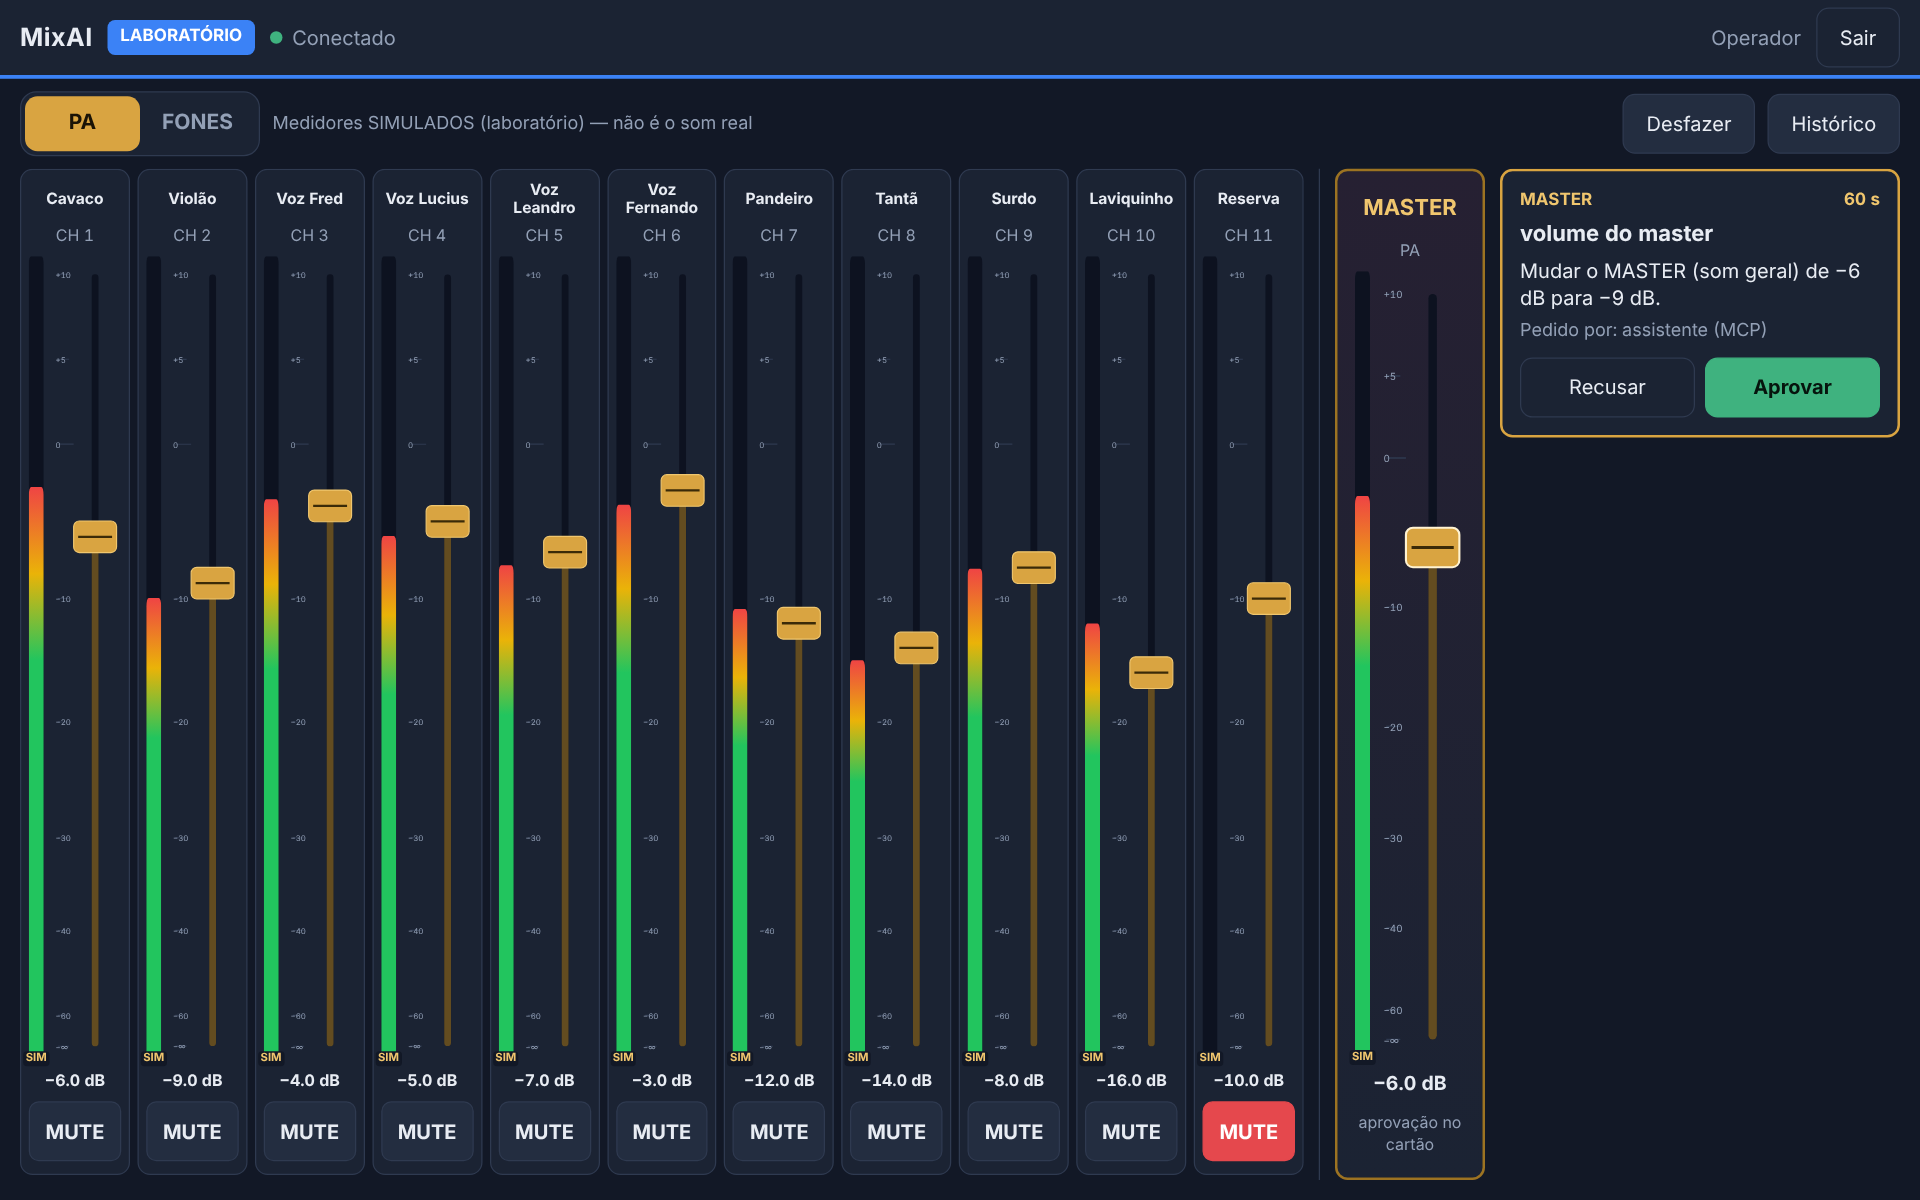
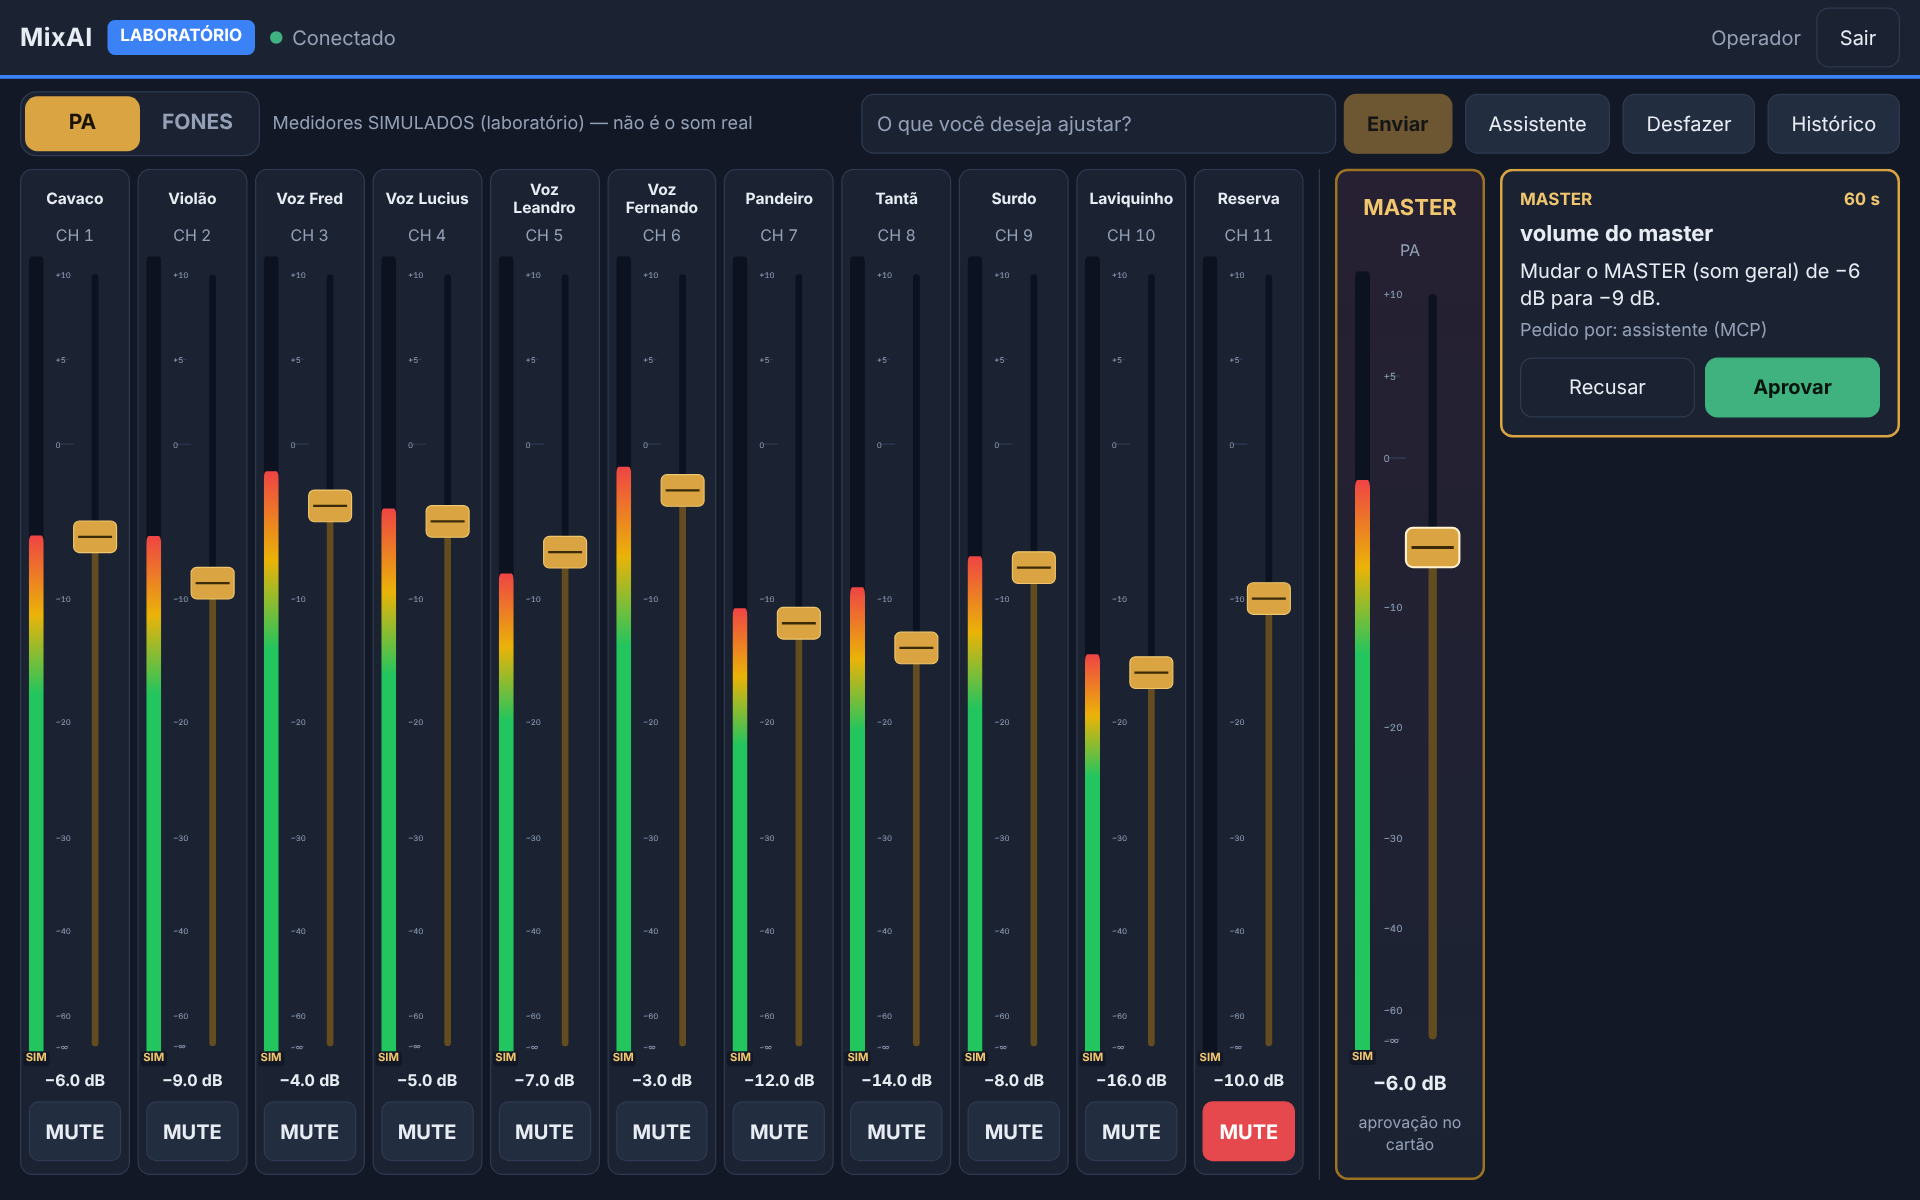
E4: testes de integração do assistente e capturas
- e2e (navegador real + servidor LAB): Yoga e celular sincronizados após
  ajustes aplicados pelo assistente nos dois sentidos, inclusive o
  "Não, voltar"; pergunta PA/FONES com botões; master pelo assistente →
  cartão de aprovação → Aprovar; músico pedindo PA recusado; IA simulada
  propondo com motivo e, ao cair, aviso sem travar a mesa (MUTE segue).
- Painel: origem "IA" visível no próprio cartão; a conversa rola até a
  mensagem mais recente.
- Capturas da E4 (Yoga e celular; IA simulada) e capturas da E3
  atualizadas com o campo do assistente.

Claude-Session: https://claude.ai/code/session_01ALNfJPYNgshdvedMN7ticP

diff --git a/test/e2e/assistant.test.ts b/test/e2e/assistant.test.ts
@@ -1,0 +1,137 @@
+import type { Browser, Page } from 'playwright';
+import { afterAll, afterEach, beforeAll, describe, expect, it } from 'vitest';
+import { paramKey } from '../../src/core/revisions.js';
+import { auxBus, MASTER } from '../../src/mixer/types.js';
+import { bandChannels, enter, launch, MUSICIAN_PIN, OPERATOR_PIN, PHONE, startLab } from './harness.js';
+
+type Lab = Awaited<ReturnType<typeof startLab>>;
+let browser: Browser;
+const labs: Lab[] = [];
+const contexts: Array<{ close: () => Promise<void> }> = [];
+beforeAll(async () => {
+  browser = await launch();
+});
+afterAll(async () => {
+  await browser.close();
+});
+afterEach(async () => {
+  for (const c of contexts.splice(0)) await c.close().catch(() => undefined);
+  for (const l of labs.splice(0)) await l.server.close();
+});
+
+async function lab(opts: Parameters<typeof startLab>[0] = {}) {
+  const l = await startLab({ channels: bandChannels(), ...opts });
+  labs.push(l);
+  return l;
+}
+async function open(l: Lab, pin: string, device?: object) {
+  const r = await enter(browser, l.base, pin, device);
+  contexts.push(r.ctx);
+  return r.page;
+}
+async function say(page: Page, text: string) {
+  await page.getByPlaceholder('O que você deseja ajustar?').fill(text);
+  await page.getByRole('button', { name: 'Enviar' }).click();
+}
+const v = (l: Lab, key: string) => (l.mixer.read(key as never) as { value?: unknown }).value;
+const lastCard = (page: Page) => page.locator('.proposal').last();
+
+/** Resposta simulada da Anthropic (nenhum crédito real). */
+const anthropic = (input: unknown) =>
+  new Response(
+    JSON.stringify({
+      model: 'claude-haiku-5-5',
+      content: [{ type: 'tool_use', id: 't', name: 'propor_ajuste', input }],
+      usage: { input_tokens: 850, output_tokens: 70 },
+    }),
+    { status: 200, headers: { 'content-type': 'application/json' } },
+  );
+
+describe('assistente na tela (LAB, navegador real)', () => {
+  it('Yoga e celular sincronizados após alterações feitas pelo assistente', async () => {
+    const l = await lab();
+    const yoga = await open(l, OPERATOR_PIN);
+    const phone = await open(l, MUSICIAN_PIN, PHONE);
+
+    // Operador, no Yoga, pelo assistente: cartão primeiro, nada muda até Aplicar
+    await say(yoga, 'sobe o cavaco nos fones');
+    await lastCard(yoga).waitFor();
+    expect(await lastCard(yoga).textContent()).toContain('FONES');
+    expect(v(l, paramKey.level(1, auxBus(1)))).toBe(-20);
+    await lastCard(yoga).getByRole('button', { name: 'Aplicar' }).click();
+    await expect.poll(() => v(l, paramKey.level(1, auxBus(1)))).toBe(-18);
+    await expect.poll(() => phone.getByTestId('fones-value-1').textContent()).toContain('−18.0 dB'); // o celular viu
+
+    // Músico, no celular: "sobe o surdo" → FONES (o único destino dele) → Yoga acompanha
+    await say(phone, 'sobe o surdo');
+    await lastCard(phone).getByRole('button', { name: 'Aplicar' }).click();
+    await expect.poll(() => v(l, paramKey.level(9, auxBus(1)))).toBe(-18);
+    await yoga.getByRole('tab', { name: 'FONES' }).click();
+    await expect.poll(() => yoga.locator('.strips .strip-value').nth(8).textContent()).toContain('−18.0 dB');
+
+    // "Melhorou? Não, voltar" no celular → nova proposta → volta ao valor anterior
+    await phone.getByRole('button', { name: 'Não, voltar' }).click();
+    await lastCard(phone).getByRole('button', { name: 'Aplicar' }).click();
+    await expect.poll(() => v(l, paramKey.level(9, auxBus(1)))).toBe(-20);
+    await expect.poll(() => yoga.locator('.strips .strip-value').nth(8).textContent()).toContain('−20.0 dB');
+  });
+
+  it('ambíguo: pergunta PA ou FONES com botões; a escolha vira proposta', async () => {
+    const l = await lab();
+    const yoga = await open(l, OPERATOR_PIN);
+    await say(yoga, 'Aumenta um pouco o surdo.');
+    await yoga.locator('.assist-options').getByRole('button', { name: 'PA', exact: true }).click();
+    await lastCard(yoga).waitFor();
+    expect(await lastCard(yoga).textContent()).toContain('−8.0 dB');
+    expect(v(l, paramKey.level(9, MASTER))).toBe(-10);
+  });
+
+  it('master pelo assistente: Aplicar → cartão de aprovação da E2 → Aprovar', async () => {
+    const l = await lab();
+    const yoga = await open(l, OPERATOR_PIN);
+    await say(yoga, 'abaixa o master 2 db');
+    await lastCard(yoga).getByRole('button', { name: 'Aplicar' }).click();
+    const approval = yoga.locator('mx-pending-cards .card');
+    await approval.waitFor();
+    expect(v(l, paramKey.master())).toBe(-6);
+    await approval.getByRole('button', { name: 'Aprovar' }).click();
+    await expect.poll(() => v(l, paramKey.master())).toBe(-8);
+  });
+
+  it('músico pedindo PA pelo assistente: recusado com explicação', async () => {
+    const l = await lab();
+    const phone = await open(l, MUSICIAN_PIN, PHONE);
+    await say(phone, 'sobe o surdo no PA');
+    await phone.locator('.tone-error').waitFor();
+    expect(await phone.locator('.tone-error').textContent()).toContain('PA e master são do operador');
+    expect(v(l, paramKey.level(9, MASTER))).toBe(-10);
+  });
+
+  it('IA (simulada): pedido vago vira proposta com motivo; a mesa segue funcionando se a IA cair', async () => {
+    let mode: 'ok' | 'down' = 'ok';
+    const l = await lab({
+      ai: { enabled: true, timeoutMs: 2000 },
+      aiKey: 'sk-ant-teste',
+      aiFetch: async () => {
+        if (mode === 'down') throw Object.assign(new TypeError('fetch failed'), { cause: { code: 'ENOTFOUND' } });
+        return anthropic({ acao: 'propor', propostas: [{ tipo: 'volume', canal: 1, destino: 'PA', delta_db: 2, motivo: 'O cavaco está sumindo atrás do surdo' }] });
+      },
+    });
+    const yoga = await open(l, OPERATOR_PIN);
+    expect(await yoga.locator('.assist-mode').count()).toBe(0); // painel fechado até usar
+    await say(yoga, 'não tô ouvindo o cavaco, tá embolado');
+    await lastCard(yoga).waitFor();
+    expect(await yoga.locator('.assist-mode').textContent()).toContain('IA ligada');
+    expect(await lastCard(yoga).textContent()).toContain('O cavaco está sumindo atrás do surdo');
+    expect(await lastCard(yoga).locator('.assist-src').textContent()).toContain('IA'); // origem visível no cartão
+    expect(v(l, paramKey.level(1, MASTER))).toBe(-10);
+
+    mode = 'down';
+    await say(yoga, 'agora tá tudo estranho');
+    await yoga.locator('.tone-error').waitFor();
+    expect(await yoga.locator('.tone-error').textContent()).toContain('temporariamente indisponíveis');
+    // a mesa continua: MUTE funciona normalmente
+    await yoga.locator('.strips mx-strip').nth(10).getByRole('button', { name: 'MUTE' }).click();
+    await expect.poll(() => v(l, paramKey.mute(11, MASTER))).toBe(true);
+  });
+});

diff --git a/test/e2e/screenshots.test.ts b/test/e2e/screenshots.test.ts
@@ -52,3 +52,54 @@ it('capturas da interface (Yoga e celular)', async () => {
     await l.server.close();
   }
 }, 90_000);
+
+/** Capturas da E4 (assistente). A IA é SIMULADA: nenhuma chamada real à API. */
+it('capturas do assistente (Yoga e celular)', async () => {
+  const out = join(PROJECT_ROOT, 'docs', 'lab', 'img');
+  const fake = (input: unknown) =>
+    new Response(JSON.stringify({ model: 'claude-haiku-5-5', content: [{ type: 'tool_use', id: 't', name: 'propor_ajuste', input }], usage: { input_tokens: 850, output_tokens: 70 } }), {
+      status: 200,
+      headers: { 'content-type': 'application/json' },
+    });
+  const l = await startLab({
+    channels: bandChannels(),
+    safety: { maxStepDB: 40 },
+    ai: { enabled: true },
+    aiKey: 'sk-ant-simulada',
+    aiFetch: async () => fake({ acao: 'propor', propostas: [{ tipo: 'volume', canal: 1, destino: 'PA', delta_db: 2, motivo: 'O cavaco está sumindo atrás do surdo; subo 2 dB no PA.' }] }),
+  });
+  const browser = await launch();
+  try {
+    const op = await l.login(OPERATOR_PIN);
+    for (const [ch, db] of [[1, -6], [2, -9], [3, -4], [4, -5], [5, -7], [6, -3], [7, -12], [8, -14], [9, -8], [10, -16]] as const) {
+      await l.command(op, { type: 'set_level', channel: ch, db });
+    }
+    const yoga = await enter(browser, l.base, OPERATOR_PIN, YOGA);
+    const ask = async (page: import('playwright').Page, text: string) => {
+      await page.getByPlaceholder('O que você deseja ajustar?').fill(text);
+      await page.getByRole('button', { name: 'Enviar' }).click();
+    };
+    await ask(yoga.page, 'diminui 3 dB da voz Fernando no PA');
+    await yoga.page.locator('.proposal').waitFor();
+    await yoga.page.locator('.proposal').last().getByRole('button', { name: 'Aplicar' }).click();
+    await yoga.page.locator('.assist-feedback').waitFor();
+    await ask(yoga.page, 'não tô ouvindo o cavaco, tá embolado');
+    await yoga.page.locator('.proposal .assist-src').waitFor();
+    await yoga.page.waitForTimeout(500);
+    await yoga.page.screenshot({ path: join(out, 'e4-yoga-assistente.png') });
+
+    const mus = await enter(browser, l.base, MUSICIAN_PIN, PHONE);
+    await ask(mus.page, 'aumenta um pouco o surdo');
+    await mus.page.locator('.proposal').waitFor();
+    await mus.page.waitForTimeout(300);
+    await mus.page.screenshot({ path: join(out, 'e4-celular-assistente.png') });
+
+    await ask(mus.page, 'sobe a voz');
+    await mus.page.locator('.assist-options').waitFor();
+    await mus.page.waitForTimeout(300);
+    await mus.page.screenshot({ path: join(out, 'e4-celular-pergunta.png') });
+  } finally {
+    await browser.close();
+    await l.server.close();
+  }
+}, 90_000);

diff --git a/web/src/app/assistant/assistant-panel.component.ts b/web/src/app/assistant/assistant-panel.component.ts
@@ -1,4 +1,4 @@
-import { ChangeDetectionStrategy, Component, inject } from '@angular/core';
+import { ChangeDetectionStrategy, Component, ElementRef, afterRenderEffect, inject, viewChild } from '@angular/core';
 import { AssistantUiService, type CardState } from '../core/assistant.service';
 
 const STATE_TEXT: Record<CardState, string> = {
@@ -26,7 +26,7 @@ const STATE_TEXT: Record<CardState, string> = {
       <span class="spacer"></span>
       <button type="button" class="btn btn-ghost btn-small" (click)="assistant.open.set(false)" aria-label="Recolher o assistente">Recolher</button>
     </header>
-    <ol class="assist-log" aria-live="polite">
+    <ol class="assist-log" aria-live="polite" #log>
       @for (item of assistant.items(); track item.id) {
         <li class="assist-item" [class.from-user]="item.from === 'user'" [class.tone-error]="item.tone === 'error'" [class.tone-ok]="item.tone === 'ok'">
           @if (item.text) {
@@ -39,7 +39,12 @@ const STATE_TEXT: Record<CardState, string> = {
           }
           @for (card of item.cards ?? []; track card.id) {
             <article class="proposal" [class.is-done]="assistant.state(card.id) !== 'open' && assistant.state(card.id) !== 'applying'">
-              <h3>{{ card.title }}</h3>
+              <h3>
+                @if (card.source === 'ai') {
+                  <span class="assist-src" title="Sugestão do Claude (IA)">IA</span>
+                }
+                {{ card.title }}
+              </h3>
               <dl>
                 <dt>Canal</dt>
                 <dd>{{ card.channel }}</dd>
@@ -96,6 +101,18 @@ const STATE_TEXT: Record<CardState, string> = {
 })
 export class AssistantPanelComponent {
   readonly assistant = inject(AssistantUiService);
+  private readonly log = viewChild<ElementRef<HTMLElement>>('log');
+
+  constructor() {
+    // Sempre mostra a mensagem mais recente (cartão, pergunta ou "Melhorou?").
+    afterRenderEffect(() => {
+      this.assistant.items();
+      this.assistant.cardState();
+      this.assistant.thinking();
+      const el = this.log()?.nativeElement;
+      if (el) el.scrollTop = el.scrollHeight;
+    });
+  }
   stateText(s: CardState): string {
     return STATE_TEXT[s];
   }
